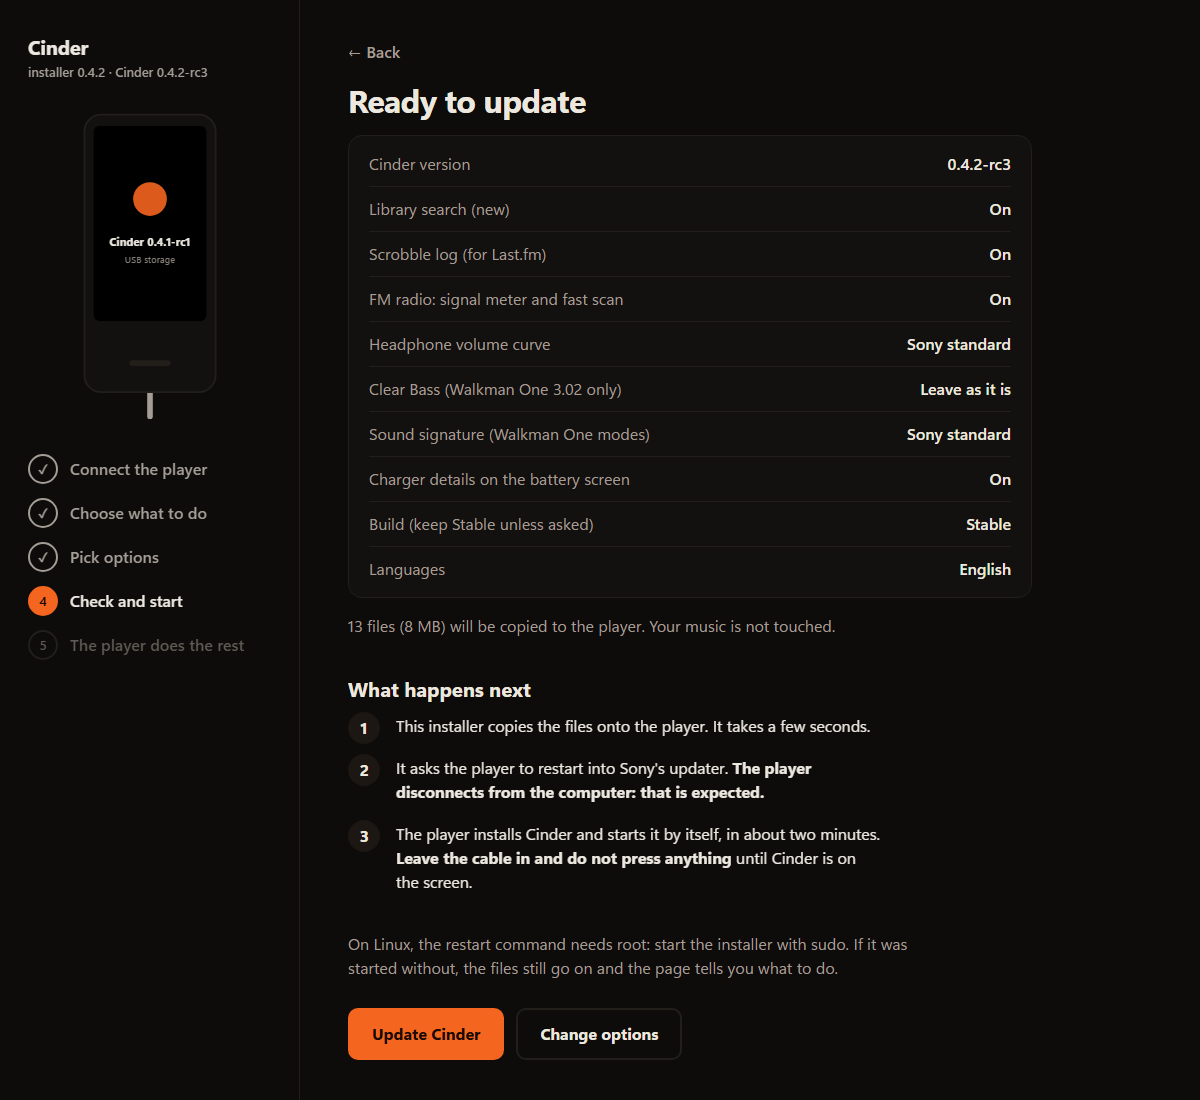
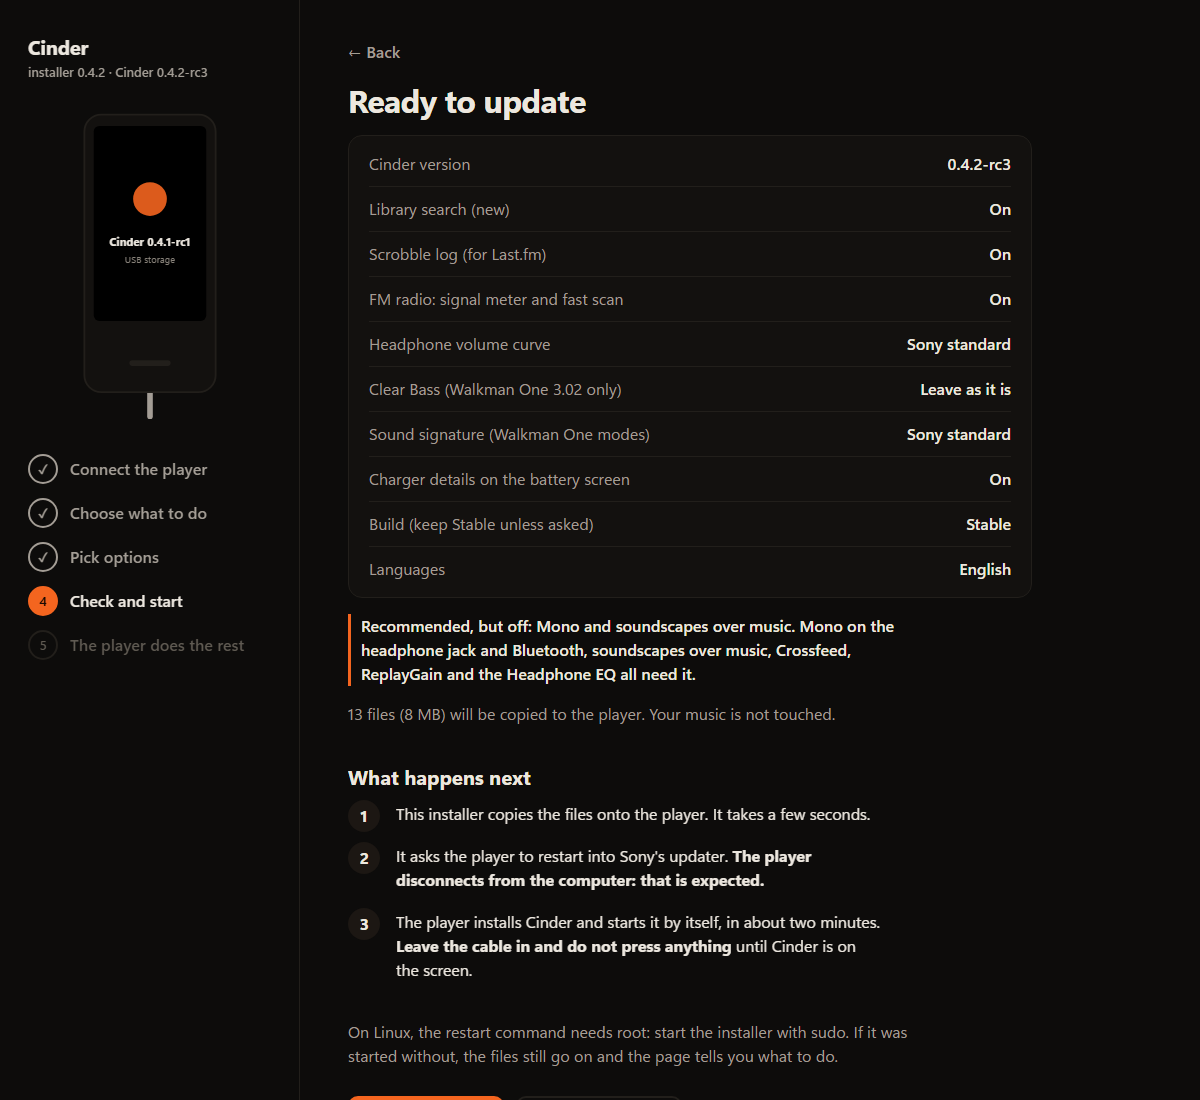
feat: enhance installer recommendations and support for Headphone EQ functionality

Changed region(s): [[0.2775, 0.5564, 0.74, 0.8036], [0.2775, 0.8345, 0.74, 1.0]]

diff --git a/installer/src/page.html b/installer/src/page.html
@@ -446,6 +446,7 @@ function optRow(c) {
         onchange: e => setBool(c, e.target.checked)}),
       el("label", {for: id}, c.title),
       el("div", {class: "desc", id: id + "-d"}, prose(c.desc),
+        c.recommend && c.value !== "1" ? el("p", {class: "need"}, "Recommended: " + c.recommend) : null,
         needNote[c.id] ? el("p", {class: "need", role: "status"}, needNote[c.id] + ".") : null), risk);
   }
   return el("fieldset", {class: "opt"},
@@ -471,11 +472,13 @@ function review() {
     on.map(c => el("div", {}, el("dt", {}, c.title),
       el("dd", {}, c.kind === "bool" ? "On" : (c.choices.find(x => x.value === c.value) || {label: c.value}).label))),
     el("div", {}, el("dt", {}, "Languages"), el("dd", {}, langs.join(", ") || "English")));
+  const missed = comps.filter(c => c.recommend && c.kind === "bool" && c.value !== "1")
+    .map(c => el("p", {class: "need"}, "Recommended, but off: " + c.title + ". " + c.recommend));
   const planLine = el("p", {class: "dim"}, "Working out the files…");
   api("/plan", action + "\n" + answers()).then(p => {
     planLine.textContent = p.files + " files (" + Math.max(1, Math.round(p.kb / 1024)) + " MB) will be copied to the player. Your music is not touched.";
   }).catch(e => { planLine.textContent = "This installer cannot do that: " + e.message; });
-  out.push(sum, planLine,
+  out.push(sum, ...missed, planLine,
     el("h2", {}, "What happens next"),
     el("ol", {class: "howto"},
       el("li", {}, "This installer copies the files onto the player. It takes a few seconds."),

diff --git a/player/cinder-ui/src/advanced.rs b/player/cinder-ui/src/advanced.rs
@@ -180,6 +180,10 @@ pub struct Advanced<'a> {
     pub replaygain: &'static str,
     /// The headphone EQ profile playing, by name; empty when off.
     pub hp_eq: &'a str,
+    /// Cinder's sound library is loaded in the sound service (the installer's "Mono and
+    /// soundscapes" option). Crossfeed, ReplayGain and the headphone EQ run in it, and without it
+    /// do nothing, so their rows say so.
+    pub hook: bool,
     /// The DAC EQ has at least one band off zero.
     pub dac_eq_on: bool,
     /// The volume curve: None without the installer's volume-curve option, else whether the
@@ -213,6 +217,8 @@ pub fn not_here(a: &Advanced, row: usize) -> bool {
 }
 
 const NOT_HERE: &str = "Not in Walkman One's sound library";
+/// Crossfeed, ReplayGain and the headphone EQ without Cinder's sound library.
+const NEEDS_HOOK: &str = "Needs the installer's Mono and soundscapes option";
 
 /// A row drawn dim, for when something upstream has taken it out of the path. Same geometry as
 /// `sound::row` — it just draws the label in the faint ink so the screen reads as "these are not
@@ -416,7 +422,9 @@ fn spec(a: &Advanced, r: usize) -> (&'static str, String, End) {
         ),
         ROW_CROSSFEED => (
             "Crossfeed",
-            s(if a.mono {
+            s(if !a.hook {
+                NEEDS_HOOK
+            } else if a.mono {
                 "Off while Mono is on"
             } else {
                 "Lets each ear hear a little of the other side"
@@ -426,6 +434,7 @@ fn spec(a: &Advanced, r: usize) -> (&'static str, String, End) {
         ROW_REPLAYGAIN => (
             "ReplayGain",
             s(match a.replaygain {
+                _ if !a.hook => NEEDS_HOOK,
                 "Per album" => "Each album at the same loudness, its own mix kept",
                 "Per track" => "Every song at the same loudness",
                 _ => "Evens out loudness from the songs' tags",
@@ -434,7 +443,9 @@ fn spec(a: &Advanced, r: usize) -> (&'static str, String, End) {
         ),
         ROW_HP_EQ => (
             "Headphone EQ",
-            if a.hp_eq.is_empty() {
+            if !a.hook {
+                s(NEEDS_HOOK)
+            } else if a.hp_eq.is_empty() {
                 s("A profile for your headphones, from cinder_eq")
             } else {
                 s(a.hp_eq)
@@ -561,6 +572,7 @@ mod tests {
             mono: false,
             replaygain: "Off",
             hp_eq: "",
+            hook: true,
             dac_eq_on: false,
             vol_curve: Some(false),
             clear_bass: None,

diff --git a/installer/src/catalogue.rs b/installer/src/catalogue.rs
@@ -42,6 +42,9 @@ pub struct Comp {
     pub start: String,
     /// Options this one does not work without (`& id` lines). [`apply_needs`] switches them on.
     pub needs: Vec<String>,
+    /// Why the installer recommends it (`* ` lines): what else on the player needs it. Shown
+    /// while it is off. Empty for most options.
+    pub recommend: String,
 }
 
 /// Where a guided install begins, before any page is changed. `Cinder` is the defaults; the other
@@ -273,6 +276,7 @@ pub fn parse_catalogue(text: &str) -> Result<Vec<Comp>, String> {
                 risk: String::new(),
                 start: String::new(),
                 needs: Vec::new(),
+                recommend: String::new(),
             });
             para = false;
         } else if indented {
@@ -290,6 +294,13 @@ pub fn parse_catalogue(text: &str) -> Result<Vec<Comp>, String> {
             }
             if let Some(rest) = t.strip_prefix("& ") {
                 last.needs.push(rest.trim().to_string());
+                continue;
+            }
+            if let Some(rest) = t.strip_prefix("* ") {
+                if !last.recommend.is_empty() {
+                    last.recommend.push(' ');
+                }
+                last.recommend.push_str(rest.trim());
                 continue;
             }
             if let Some(rest) = t.strip_prefix('=') {
@@ -516,6 +527,7 @@ preload | CINDER_PRELOAD | bool | 0 | Preload
     ! Edits a start-up script.
     ! Undo: untick it.
     + sound
+    * Crossfeed needs it.
 ";
 
     #[test]
@@ -526,8 +538,10 @@ preload | CINDER_PRELOAD | bool | 0 | Preload
             ("Library", "Sound")
         );
         assert_eq!(c[2].risk, "Edits a start-up script. Undo: untick it.");
+        assert_eq!(c[2].recommend, "Crossfeed needs it.");
+        assert!(c[0].recommend.is_empty());
         assert!(
-            !c[0].desc.contains('!') && !c[2].desc.contains('+'),
+            !c[0].desc.contains('!') && !c[2].desc.contains('+') && !c[2].desc.contains('*'),
             "not description text"
         );
         apply_start(&mut c, Start::Sound);

diff --git a/player/cinder-ui/src/i18n_catalog.rs b/player/cinder-ui/src/i18n_catalog.rs
@@ -280,6 +280,7 @@ fn simplifiedchinese(source: &str) -> Option<&'static str> {
         "Connected{}" => Some("已连接{}"),
         "Connection priority" => Some("连接优先"),
         "Copy .palette files to cinder_palettes/" => Some("将 .palette 文件复制到 cinder_palettes/"),
+        "Copy AutoEQ profiles to cinder_eq" => Some("请将 AutoEQ 配置文件复制到 cinder_eq"),
         "Copy {live_letter} to {other_letter}" => Some("将 {live_letter} 复制到 {other_letter}"),
         "Copy {} to {other}" => Some("将 {} 复制到 {other}"),
         "Cores online" => Some("在线核心"),
@@ -591,6 +592,7 @@ fn simplifiedchinese(source: &str) -> Option<&'static str> {
         "Name it" => Some("命名"),
         "Needs library playback" => Some("需要曲库播放"),
         "Needs the battery helper" => Some("需要电池组件"),
+        "Needs the installer's Mono and soundscapes option" => Some("需要安装时选择单声道和环境声景选项"),
         "Needs the installer's volume curve option" => Some("需要安装器的音量曲线选项"),
         "Needs wired headphones as the aerial" => Some("需插入有线耳机作为天线"),
         "Never" => Some("从未播放"),
@@ -609,7 +611,6 @@ fn simplifiedchinese(source: &str) -> Option<&'static str> {
         "No playable music queue" => Some("当前没有可播放的音乐队列"),
         "No playlists yet." => Some("尚无播放列表。"),
         "No presets yet. Save the current sound." => Some("暂无预设，可保存当前声音。"),
-        "No profiles: copy AutoEQ ParametricEQ files to cinder_eq" => Some("没有配置文件：请将 AutoEQ 的 ParametricEQ 文件复制到 cinder_eq"),
         "No room for another smart playlist" => Some("智能播放列表已达上限"),
         "No song matches its rules yet. EDIT changes them." => Some("暂无符合规则的歌曲。点按编辑修改规则。"),
         "Normaliser" => Some("动态音量均衡"),

diff --git a/installer/src/console.rs b/installer/src/console.rs
@@ -36,10 +36,15 @@ fn show(comps: &[Comp], target: &Path, action: Action) {
         }
         match c.kind {
             Kind::Bool => println!(
-                "   {:>2}  [{}]  {}",
+                "   {:>2}  [{}]  {}{}",
                 i + 1,
                 if c.is_on() { 'x' } else { ' ' },
-                c.title
+                c.title,
+                if !c.recommend.is_empty() && !c.is_on() {
+                    "  (recommended)"
+                } else {
+                    ""
+                }
             ),
             Kind::Enum(_) => println!("   {:>2}       {}: {}", i + 1, c.title, c.shown()),
         }
@@ -57,6 +62,12 @@ fn show(comps: &[Comp], target: &Path, action: Action) {
 fn describe(c: &Comp, n: usize) {
     println!("\n   {n}. {}", c.title);
     print!("{}", wrap(&c.explain("(*)", "( )"), 72, "      "));
+    if !c.recommend.is_empty() {
+        print!(
+            "{}",
+            wrap(&format!("Recommended: {}", c.recommend), 72, "      ")
+        );
+    }
 }
 
 /// Wrap to `width` columns, every line indented by `indent`. Blank lines are kept, and the
@@ -213,6 +224,15 @@ pub fn run(
             };
             if on {
                 print!("{}", wrap(&c.risk, 68, "        "));
+            } else if !c.recommend.is_empty() {
+                print!(
+                    "{}",
+                    wrap(
+                        &format!("Recommended, but off. {}", c.recommend),
+                        68,
+                        "        "
+                    )
+                );
             }
         }
         println!(

diff --git a/installer/src/web.rs b/installer/src/web.rs
@@ -638,7 +638,7 @@ fn comps_json(comps: &[Comp]) -> String {
             };
             format!(
                 "{{\"id\":{},\"var\":{},\"kind\":{},\"title\":{},\"desc\":{},\"risk\":{},\"group\":{},\
-                 \"start\":{},\"default\":{},\"value\":{},\"choices\":[{}],\"needs\":[{}],\"language\":{},\
+                 \"start\":{},\"default\":{},\"value\":{},\"choices\":[{}],\"needs\":[{}],\"recommend\":{},\"language\":{},\
                  \"lang_name\":{},\"lang_native\":{}}}",
                 esc(&c.id),
                 esc(&c.var),
@@ -652,6 +652,7 @@ fn comps_json(comps: &[Comp]) -> String {
                 esc(&c.value),
                 choices,
                 c.needs.iter().map(|n| esc(n)).collect::<Vec<_>>().join(","),
+                esc(&c.recommend),
                 c.is_language(),
                 esc(if c.is_language() { c.language_name() } else { "" }),
                 esc(if c.is_language() { c.language_native() } else { "" }),

diff --git a/player/cinder-ffi/src/lib.rs b/player/cinder-ffi/src/lib.rs
@@ -6695,8 +6695,7 @@ fn carry_action_now(r: &mut Render, a: &cinder_ui::nav::Action) -> Option<libc::
                 let _ = hpeq_play(r, "");
                 r.hpeq_pref.clear();
                 if names.is_empty() {
-                    r.app
-                        .notify("No profiles: copy AutoEQ ParametricEQ files to cinder_eq");
+                    r.app.notify("Copy AutoEQ profiles to cinder_eq");
                 } else {
                     r.app.notify("Headphone EQ off");
                 }

diff --git a/player/cinder-ui/src/nav.rs b/player/cinder-ui/src/nav.rs
@@ -11923,6 +11923,7 @@ impl App {
                     mono: self.mono,
                     replaygain: crate::advanced::REPLAYGAIN[self.replaygain_mode()],
                     hp_eq: &self.hp_eq,
+                    hook: self.mono_shim,
                     dac_eq_on: self.dac_eq != [0; crate::dac_eq::BANDS],
                     vol_curve: self.vol_curve_ok.then_some(self.vol_curve_on),
                     clear_bass: self

diff --git a/CHANGELOG.md b/CHANGELOG.md
@@ -34,6 +34,11 @@ level the commit history supports; from `v0.1.6` onward, entries are written as 
   this server**, at the top of every folder, finds songs by title, artist or album (on servers that
   answer searches). The strip at the top of the page shows what is playing; tap it to stop.
   *Host-tested against a simulated server; not yet tried with a real one.*
+- **The installer recommends "Mono and soundscapes over music".** Crossfeed, ReplayGain, the
+  Headphone EQ, Mono on the jack and Bluetooth, and soundscapes over music all run in it, so while
+  it is off the installer says so beside the option and again on the last page before installing.
+  It stays off unless you tick it. Sound ▸ Advanced also says when one of those three needs it,
+  instead of showing it on and doing nothing.
 
 ## [0.4.2] — 2026-11-11
 
